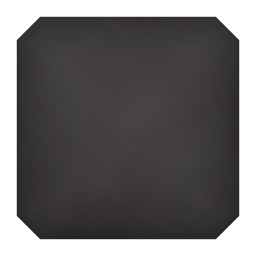
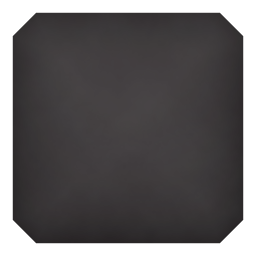
Refine Daedric square corners, persist Peek HUD view across tabs, bump to 0.17.0-rc.5
- Remove bulky protruding corner caps from Daedric Oblivion rectangular/square frames, keeping charred-obsidian chamfers with subtle embedded ember veins and zero outset
- Default Peek HUD to showing all HUD elements (Both) when enabled and preserve the chosen Peek HUD view across Appearance page switches
- Refresh daedric-oblivion PNGs, packs-manifest.json and bump version to 0.17.0-rc.5

Changed region(s): [[0.0312, 0.0312, 0.9688, 0.9688]]

diff --git a/src/Editor.cpp b/src/Editor.cpp
@@ -355,7 +355,7 @@ std::vector<EditCommand> Editor::draw(const EditorState& state,Hud& hud,double n
             const int step=pressed==PadButton::rb||pressed==PadButton::rt?1:pressed==PadButton::lb||pressed==PadButton::lt?-1:0;
             if(!step)continue;
             if(pressed==PadButton::lb||pressed==PadButton::rb)tab_=(tab_+5+step)%5;
-            else if(tab_==1){appearancePage_=(appearancePage_+5+step)%5;previewMode_=appearancePage_==2?1:appearancePage_==3?3:0;}
+            else if(tab_==1){appearancePage_=(appearancePage_+5+step)%5;if(!peekHud_)previewMode_=appearancePage_==2?1:appearancePage_==3?3:0;}
             else if(tab_==2)controlsPage_=(controlsPage_+3+step)%3;
         }
     padDowns_.clear();
@@ -1565,11 +1565,11 @@ std::vector<EditCommand> Editor::draw(const EditorState& state,Hud& hud,double n
         } else {
             const std::array<const char*,5> sections{"Theme","Widget","Selector","Equipment","General"};
             const float sectionBtnW=peeking?px(84):px(110);
-            for(int i=0;i<5;++i){if(i)ImGui::SameLine();const bool active=appearancePage_==i;if(active)ImGui::PushStyleColor(ImGuiCol_Button,ImGui::GetStyleColorVec4(ImGuiCol_Header));if(UI::Button(sections[std::size_t(i)],{sectionBtnW,0})){appearancePage_=i;previewMode_=i==2?1:i==3?3:0;}if(active)ImGui::PopStyleColor();}
+            for(int i=0;i<5;++i){if(i)ImGui::SameLine();const bool active=appearancePage_==i;if(active)ImGui::PushStyleColor(ImGuiCol_Button,ImGui::GetStyleColorVec4(ImGuiCol_Header));if(UI::Button(sections[std::size_t(i)],{sectionBtnW,0})){appearancePage_=i;if(!peekHud_)previewMode_=i==2?1:i==3?3:0;}if(active)ImGui::PopStyleColor();}
             if(!peeking)ImGui::SameLine(0,px(18));
             changed|=UI::Checkbox("Show advanced settings",&options.advancedAppearance);
             if(ImGui::IsItemHovered())UI::SetTooltip("Adds spacing, text sizes, opacity, exact placement, idle fading and the less common display options to each page.");
-            ImGui::SameLine(0,px(14));UI::Checkbox("Peek HUD",&peekHud_);
+            ImGui::SameLine(0,px(14));if(UI::Checkbox("Peek HUD",&peekHud_)&&peekHud_)previewMode_=2;
             if(ImGui::IsItemHovered())UI::SetTooltip("Docks Appearance to the side of the screen and renders the live HUD over the game world.");
             if(peeking) {
                 ImGui::SameLine(0,px(8));

diff --git a/tools/design-studio/ornaments.py b/tools/design-studio/ornaments.py
@@ -183,33 +183,18 @@ def rect_ornaments(
         _draw_quad_sym(ce, w, h, aether_dot)
 
     elif style == "daedric_horn":
-        # Angular forged obsidian corner talons + glowing inner molten ember veins along chamfer.
-        def talon(ctx: cairo.Context) -> None:
-            ctx.set_source_rgba(1, 1, 1, 1.0)
-            # Subtle angular beak poking cleanly to corner without looking cartoony
-            ctx.move_to(x0 + c + rw * 1.9, y0 - rw * 0.08)
-            ctx.line_to(x0 + c * 0.45, y0 - rw * 0.25)
-            ctx.line_to(x0 - rw * 0.30, y0 - rw * 0.30)
-            ctx.line_to(x0 - rw * 0.25, y0 + c * 0.45)
-            ctx.line_to(x0 - rw * 0.08, y0 + c + rw * 1.9)
-            ctx.line_to(x0 + rw * 0.95, y0 + c + rw * 1.2)
-            ctx.line_to(x0 + rw * 0.95, y0 + c * 0.65)
-            ctx.line_to(x0 + c * 0.65, y0 + rw * 0.95)
-            ctx.line_to(x0 + c + rw * 1.2, y0 + rw * 0.95)
-            ctx.close_path()
-            ctx.fill()
-
+        # Clean charred-obsidian octagonal chamfer with subtle molten ember hairline veins embedded inside the rim (no bulky protruding corner caps).
         def ember_vein(ctx: cairo.Context) -> None:
-            ctx.set_source_rgba(1, 1, 1, 0.92)
-            ctx.set_line_width(max(1.2, rw * 0.18))
-            ctx.move_to(x0 + c + rw * 1.5, y0 + rw * 0.52)
-            ctx.line_to(x0 + c * 0.72 + rw * 0.18, y0 + rw * 0.52)
-            ctx.line_to(x0 + rw * 0.52, y0 + c * 0.72 + rw * 0.18)
-            ctx.line_to(x0 + rw * 0.52, y0 + c + rw * 1.5)
+            ctx.set_source_rgba(1, 1, 1, 0.90)
+            ctx.set_line_width(max(1.2, rw * 0.20))
+            ctx.move_to(x0 + c + rw * 1.4, y0 + rw * 0.50)
+            ctx.line_to(x0 + c + rw * 0.14, y0 + rw * 0.50)
+            ctx.line_to(x0 + rw * 0.50, y0 + c + rw * 0.14)
+            ctx.line_to(x0 + rw * 0.50, y0 + c + rw * 1.4)
             ctx.stroke()
 
-        _draw_quad_sym(ch, w, h, talon)
-        _draw_quad_sym(ca, w, h, talon)
+        _draw_quad_sym(ch, w, h, ember_vein)
+        _draw_quad_sym(ca, w, h, ember_vein)
         _draw_quad_sym(ce, w, h, ember_vein)
 
     elif style == "filigree_scroll":

diff --git a/src/Version.h b/src/Version.h
@@ -3,6 +3,6 @@
 namespace quickslot::release {
 
 inline constexpr unsigned major=0,minor=17,patch=0,revision=0;
-inline constexpr char version[]="0.17.0-rc.4";
-inline constexpr char title[]="Quickslot 0.17.0-rc.4";
+inline constexpr char version[]="0.17.0-rc.5";
+inline constexpr char title[]="Quickslot 0.17.0-rc.5";
 }

diff --git a/tools/design-studio/materials.py b/tools/design-studio/materials.py
@@ -118,7 +118,7 @@ MATERIALS: Dict[str, Dict[str, Any]] = {
         "roughness": 0.44,
         "shadowOpacity": 0.72,
         "ornament": "daedric_horn",
-        "outset": 0.04,
+        "outset": 0.0,
     },
     "amethyst_crystal": {
         "label": "Faceted Royal Amethyst & Silver (Amethyst)",

diff --git a/CHANGELOG.md b/CHANGELOG.md
@@ -1,6 +1,6 @@
 # Changelog
 
-## 0.17.0-rc.4
+## 0.17.0-rc.5
 
 - Armor, clothing and jewelry can be added to groups. A tap puts a piece on, and a tap on a worn piece takes it off.
 - **New → Outfit** saves a set of worn pieces as one entry, with **Use worn**, **Include hands** and **Take off everything else**. A tap on a worn outfit puts back the gear worn before it.
